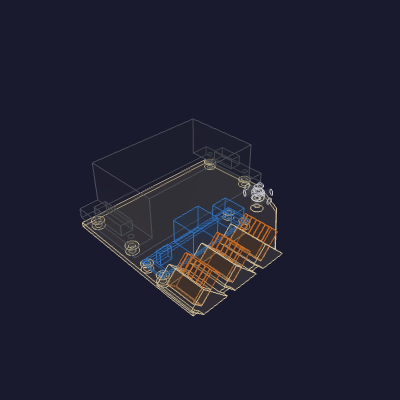
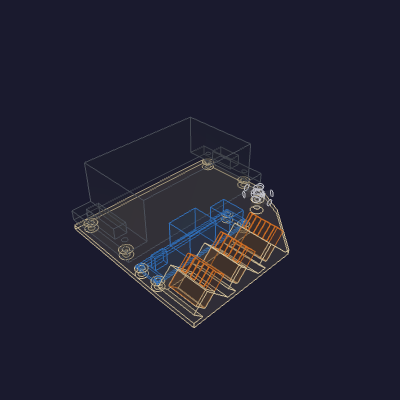
power-tray: floor covers full Wago slot footprint; shift Wagos +Y
- Drive the Wago floor footprint from the slot extent (not the narrower
  wago-body projection), so the floor reaches the slot +X edge (x=110.95) and
  back to the slot butt — nothing cantilevered off an edge.
- Shift the three Wagos +4.454 mm in Y so the first slot's butt back lands flush
  with the floor front at y~6.06 (was 1.606).

Verified: one solid, floor +X edge at 110.95, wago0 slot back at 6.06, zero clashes.

diff --git a/hardware/printed-parts/electronics/power-tray/power_tray.py b/hardware/printed-parts/electronics/power-tray/power_tray.py
@@ -20,7 +20,6 @@ Y deep, Z up; origin at the floor's bottom-left corner, Z = 0 the floor
 underside, floor top at ``floor_t``.
 """
 
-import math
 import sys
 from pathlib import Path
 
@@ -85,8 +84,9 @@ relay_posts = [
 ]
 
 # Three Wagos in a column on the far right, butt-bottom Y of each angled slot.
+# Base shifted +4.454 so the first slot's butt back lands flush at y ~ 6.06.
 wago_cx = relay_cx + relay.width / 2.0 + 6.0 + wago.width / 2.0
-wago_butt_ys = [margin + 4.0, margin + 27.6, margin + 51.2]
+wago_butt_ys = [margin + 8.454 + i * 23.6 for i in range(3)]
 
 # Ground-bus boss above the relay.
 gnd_cx = relay_cx
@@ -143,23 +143,23 @@ def _convex_hull(points):
 
 
 def _build_floor():
-    """A single solid floor: the convex outline of every object's footprint pad,
-    extruded at plate thickness. One connected piece, no thin trusses."""
-    s = math.sin(math.radians(wago_tilt))
-    c = math.cos(math.radians(wago_tilt))
-    wy0 = -wago.height * s        # tilted-Wago XY projection: butt-top corner
-    wy1 = wago.depth * c          #                            wire-bottom corner
+    """A single solid floor: the convex outline of every object's footprint,
+    extruded at plate thickness. One connected piece, no thin trusses. The Wago
+    footprints use the full slot extent, so the floor underlies each angled slot
+    out to its +X edge and back to its butt with nothing cantilevered off an edge."""
     rects = [
         (psu_cx, psu_cy, psu.width, psu.length),           # PSU body + ledges
         (relay_cx, relay_cy, relay.width, relay.length),   # relay PCB
         (gnd_cx, gnd_cy, 18.0, 18.0),                      # ground ring-stack fan
     ]
-    for by in wago_butt_ys:
-        rects.append((wago_cx, by + (wy0 + wy1) / 2.0, wago.width, wy1 - wy0))
     pts = []
     for cx, cy, w, d in rects:
         pts += [(cx - w / 2.0, cy - d / 2.0), (cx + w / 2.0, cy - d / 2.0),
                 (cx + w / 2.0, cy + d / 2.0), (cx - w / 2.0, cy + d / 2.0)]
+    for by in wago_butt_ys:
+        bb = _wago_slot(wago_cx, by).val().BoundingBox()
+        pts += [(bb.xmin, bb.ymin), (bb.xmax, bb.ymin),
+                (bb.xmax, bb.ymax), (bb.xmin, bb.ymax)]
     return cq.Workplane("XY").polyline(_convex_hull(pts)).close().extrude(floor_t)
 
 
